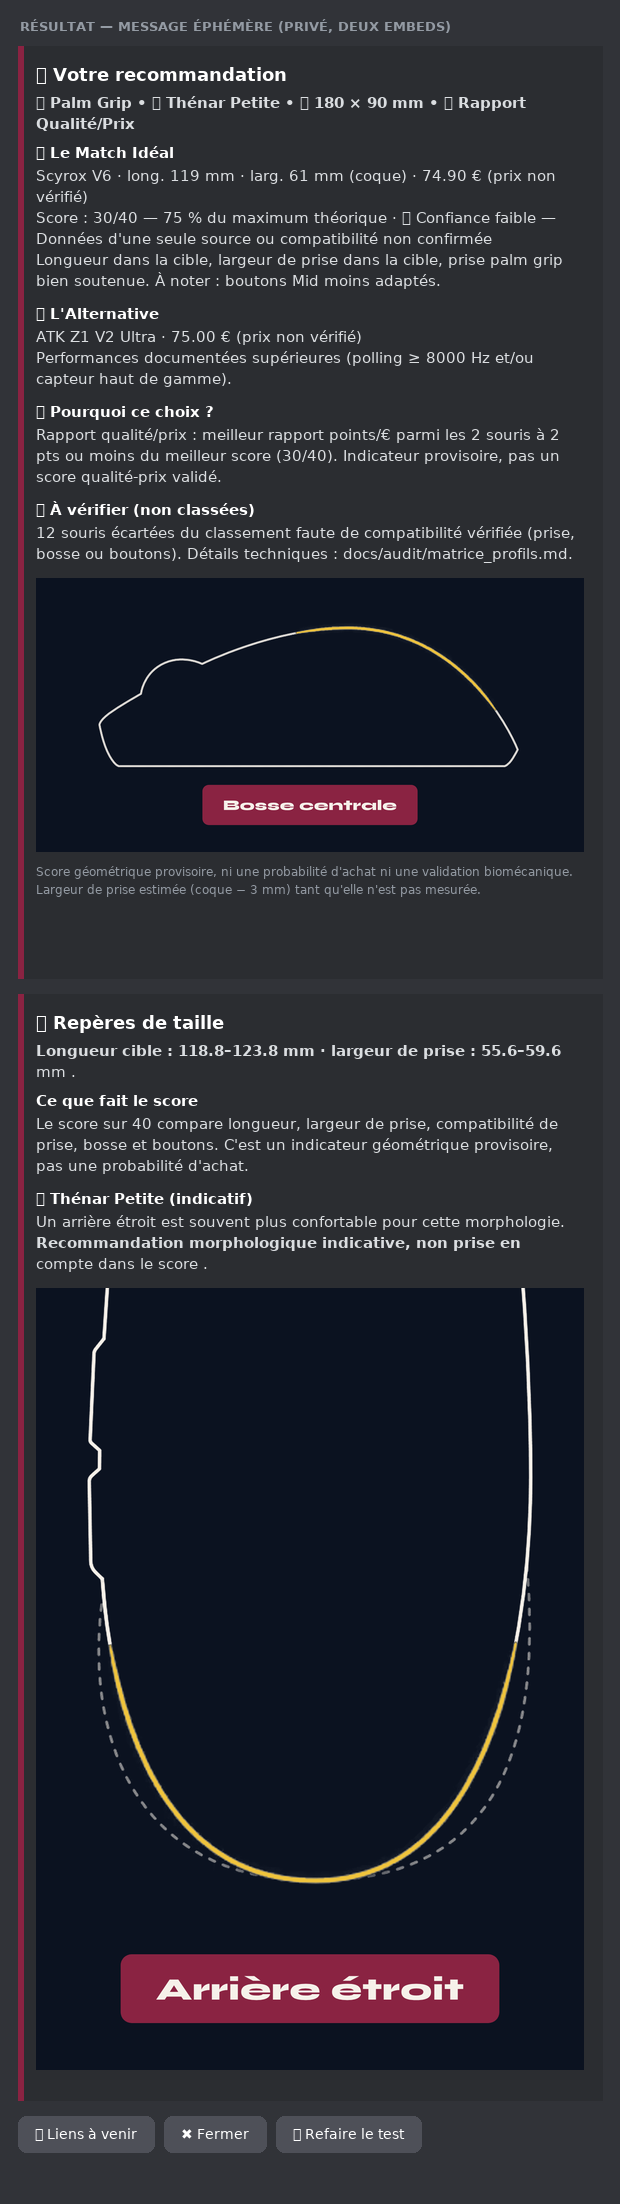
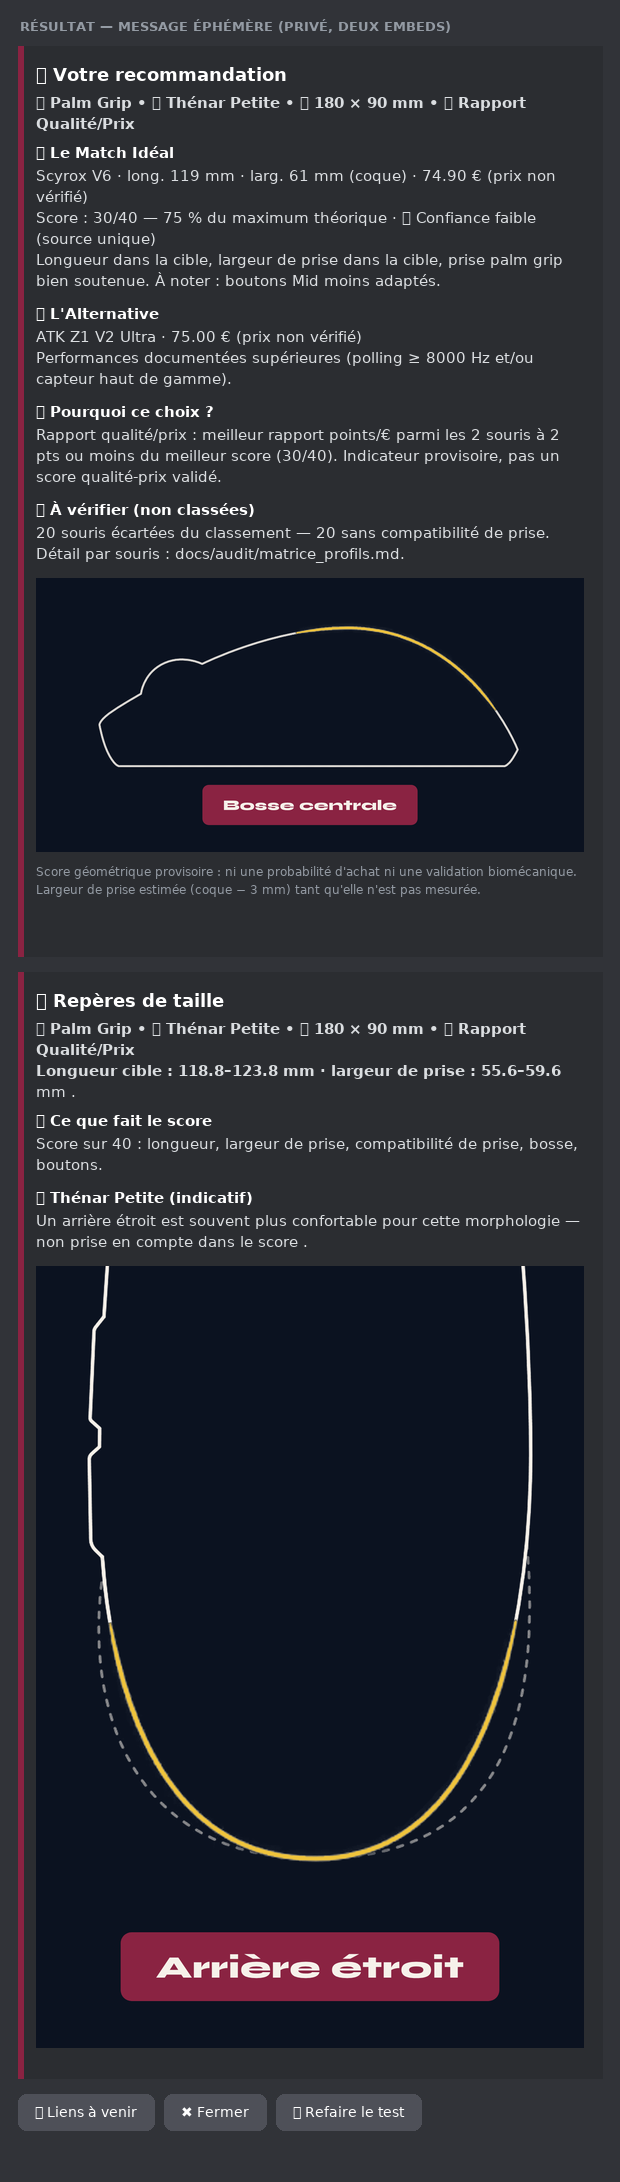
Résultat « moins pavé » + outil de mesure de la largeur de prise (méthode Oblivity)
Présentation (P5/P10 conservés, aucun calcul touché)
- Match idéal en 3 lignes ; badge de confiance compact ; une seule remarque « à noter ».
- « À vérifier » : décompte par raison (« 20 écartées — 20 sans compatibilité de prise ») puis ≤ 5 noms.
- Embed 2 autoportant (prise · thénar · main · gamme + cibles), « Ce que fait le score » en une ligne,
  thénar informatif en une ligne ; suppression des doublons de mention « provisoire ».
- Aperçus régénérés (docs/apercu_resultat.png, docs/apercu_parcours.png).

Outil (nouveau)
- tools/measure_grip_width.py : mesure la largeur de prise (mm) sur une capture vue de dessus, l'échelle
  étant déduite de la longueur réelle ; profil tous les 10 %, tolérance de fond/transparence, sortie JSON.
- tests/test_measure_grip_width.py (4 tests sur silhouettes synthétiques) ; 253 -> 257 tests verts.

Docs : AMELIORATIONS §7 (détail de la refonte) et §8 (mode d'emploi de l'outil), README (arborescence),
REPORTE_DESIGN §6 (note de mise à jour).

diff --git a/tools/measure_grip_width.py b/tools/measure_grip_width.py
@@ -1,0 +1,143 @@
+"""Mesure la largeur de prise d'une souris sur une image vue de dessus (méthode Oblivity).
+
+Pourquoi ce script : le fabricant (et EloShapes) publient la largeur **maximale**, mesurée au point le
+plus large — souvent déformé par l'évasement arrière. Le critère utile est la largeur **au niveau du
+capteur**, là où le pouce et l'auriculaire touchent la souris (voir la vidéo Oblivity « The Scientific
+Way to Pick A Mouse », 3:19 et 6:35, et `docs/AMELIORATIONS_MOTEUR_ET_RECHERCHE.md`).
+
+Mode d'emploi (aucune connexion réseau, aucune donnée envoyée) :
+  1. faire une capture vue de dessus du contour de la souris (EloShapes par exemple) ;
+  2. lancer `python tools/measure_grip_width.py capture.png --length 118.2` ;
+  3. reporter la valeur « largeur au capteur » dans `grip_width_mm` du catalogue, avec la source et la date.
+
+L'échelle est déduite de la longueur réelle : le contour doit être entier et cadré (vue de dessus stricte).
+Précision typique : ± 0,3 mm sur une capture de 600 px de long (≈ 0,2 mm par pixel).
+"""
+from __future__ import annotations
+
+import argparse
+import json
+import sys
+from pathlib import Path
+
+from PIL import Image
+
+ALPHA_THRESHOLD = 16          # transparence : en dessous, le pixel est considéré comme vide
+BACKGROUND_TOLERANCE = 24     # écart de couleur admis avec le fond (sans transparence)
+PROFILE_STEP_PERCENT = 10     # pas du profil affiché (% de la longueur depuis l'avant)
+
+
+class MeasurementError(ValueError):
+    """Image inexploitable (aucun contour détecté, format inattendu…)."""
+
+
+def _background_color(pixels, size) -> tuple[int, int, int]:
+    """Couleur de fond = moyenne des quatre coins."""
+    width, height = size
+    corners = [(0, 0), (width - 1, 0), (0, height - 1), (width - 1, height - 1)]
+    samples = [pixels[x, y][:3] for x, y in corners]
+    return tuple(sum(channel) // len(samples) for channel in zip(*samples))  # type: ignore[return-value]
+
+
+def silhouette_rows(image: Image.Image) -> list[tuple[int, int, int]]:
+    """Largeur de la silhouette, ligne par ligne : liste de (y, x_min, x_max).
+
+    Une ligne sans pixel « souris » est omise. La transparence sert de masque si elle existe,
+    sinon le fond (couleur des coins) est retiré avec une tolérance.
+    """
+    rgba = image.convert("RGBA")
+    width, height = rgba.size
+    pixels = rgba.load()
+    has_alpha = any(pixels[x, y][3] < 255 for x in range(0, width, 4) for y in range(0, height, 4))
+    background = _background_color(pixels, (width, height))
+    rows: list[tuple[int, int, int]] = []
+    for y in range(height):
+        x_min = x_max = None
+        for x in range(width):
+            red, green, blue, alpha = pixels[x, y]
+            if has_alpha:
+                is_shape = alpha > ALPHA_THRESHOLD
+            else:
+                is_shape = any(abs(channel - back) > BACKGROUND_TOLERANCE
+                               for channel, back in zip((red, green, blue), background))
+            if is_shape:
+                if x_min is None:
+                    x_min = x
+                x_max = x
+        if x_min is not None and x_max is not None:
+            rows.append((y, x_min, x_max))
+    if not rows:
+        raise MeasurementError("aucun contour détecté : vérifiez que la souris se détache du fond")
+    return rows
+
+
+def measure(image_path: Path, length_mm: float, at: float = 0.5) -> dict[str, object]:
+    """Mesure la silhouette et retourne les largeurs (mm) à la fraction demandée et au point le plus large."""
+    if length_mm <= 0:
+        raise MeasurementError("la longueur réelle doit être positive")
+    if not 0.0 <= at <= 1.0:
+        raise MeasurementError("la fraction de longueur doit être comprise entre 0 et 1")
+    rows = silhouette_rows(Image.open(image_path))
+    top, bottom = rows[0][0], rows[-1][0]
+    height_px = bottom - top + 1
+    scale = length_mm / height_px                     # mm par pixel (la hauteur de l'image = la longueur)
+    widths = [(y, (x_max - x_min + 1) * scale) for y, x_min, x_max in rows]
+
+    def width_at(fraction: float) -> tuple[float, float]:
+        index = min(len(widths) - 1, max(0, round(fraction * (len(widths) - 1))))
+        y, value = widths[index]
+        return (y - top) / max(1, height_px - 1), value
+
+    at_fraction, at_width = width_at(at)
+    max_y, max_width = max(widths, key=lambda item: item[1])
+    profile = {f"{percent} %": round(width_at(percent / 100)[1], 2)
+               for percent in range(0, 101, PROFILE_STEP_PERCENT)}
+    profile["100 %"] = round(widths[-1][1], 2)
+    return {
+        "image": str(image_path),
+        "longueur_reelle_mm": length_mm,
+        "hauteur_contour_px": height_px,
+        "mm_par_pixel": round(scale, 4),
+        "largeur_au_point_demande_mm": round(at_width, 2),
+        "fraction_demandee": round(at_fraction, 3),
+        "largeur_maximale_mm": round(max_width, 2),
+        "fraction_du_maximum": round((max_y - top) / max(1, height_px - 1), 3),
+        "profil_mm": profile,
+    }
+
+
+def main(argv: list[str] | None = None) -> int:
+    parser = argparse.ArgumentParser(description="Largeur de prise d'une souris depuis une image vue de dessus.")
+    parser.add_argument("image", type=Path, help="contour vu de dessus (PNG ou JPG)")
+    parser.add_argument("--length", type=float, required=True, help="longueur réelle de la souris en mm (échelle)")
+    parser.add_argument("--at", type=float, default=0.5,
+                        help="position de mesure le long de la souris (0 = avant, 0,5 = milieu, 1 = arrière)")
+    parser.add_argument("--json", action="store_true", help="sortie JSON (pour un script)")
+    args = parser.parse_args(argv)
+    if not args.image.is_file():
+        print(f"ERREUR : image introuvable : {args.image}")
+        return 1
+    try:
+        result = measure(args.image, args.length, args.at)
+    except MeasurementError as exc:
+        print(f"ERREUR : {exc}")
+        return 1
+    if args.json:
+        print(json.dumps(result, ensure_ascii=False, indent=2))
+        return 0
+    print(f"Image : {result['image']}")
+    print(f"Échelle : {result['hauteur_contour_px']} px pour {result['longueur_reelle_mm']} mm "
+          f"→ {result['mm_par_pixel']} mm/px")
+    print(f"Largeur maximale mesurée : {result['largeur_maximale_mm']} mm "
+          f"(à {result['fraction_du_maximum'] * 100:.0f} % de la longueur depuis l'avant)")
+    print(f"Largeur à {result['fraction_demandee'] * 100:.0f} % de la longueur : "
+          f"**{result['largeur_au_point_demande_mm']} mm**")
+    print("Profil de largeur (hausse de l'avant vers l'arrière) :")
+    for percent, value in result["profil_mm"].items():
+        print(f"  {percent:>5} : {value} mm")
+    print("\nReporter la valeur utile dans data/mouse_db.json (champ grip_width_mm) avec sa source et sa date.")
+    return 0
+
+
+if __name__ == "__main__":
+    sys.exit(main())

diff --git a/cogs/finder_flow.py b/cogs/finder_flow.py
@@ -64,7 +64,7 @@ COLOR = BORDEAUX
 COLOR_EXPIRED = discord.Color.orange()           # seule exception à la charte (session expirée)
 
 SCORE_DISCLAIMER = (
-    "Score géométrique provisoire, ni une probabilité d'achat ni une validation biomécanique. "
+    "Score géométrique provisoire : ni une probabilité d'achat ni une validation biomécanique. "
     "Largeur de prise estimée (coque − 3 mm) tant qu'elle n'est pas mesurée."
 )
 PENDING_DOC_REFERENCE = "docs/audit/matrice_profils.md"
@@ -209,14 +209,11 @@ def _price_text(score: MouseScore) -> str:
 
 
 def _confidence_line(score: MouseScore) -> str:
-    """Badge de confiance en une ligne, avec la raison (jamais une couleur seule)."""
-    badge = CONFIDENCE_BADGES.get(score.confidence or "faible", "🔴")
-    reason = {
-        "élevée": "Dimensions vérifiées et largeur de prise mesurée",
-        "moyenne": "Dimensions vérifiées, largeur de prise estimée (coque − 3 mm, provisoire)",
-        "faible": "Données d'une seule source ou compatibilité non confirmée",
-    }.get(score.confidence or "faible", "Données partielles")
-    return f"{badge} Confiance {score.confidence or 'faible'} — {reason}"
+    """Badge de confiance compact (jamais une couleur seule) : le détail est expliqué dans la matrice."""
+    level = score.confidence or "faible"
+    badge = CONFIDENCE_BADGES.get(level, "🔴")
+    short = {"élevée": "", "moyenne": " (largeur estimée)", "faible": " (source unique)"}.get(level, "")
+    return f"{badge} Confiance {level}{short}"
 
 
 def _match_summary(score: MouseScore) -> str:
@@ -248,17 +245,17 @@ def _match_summary(score: MouseScore) -> str:
         )
     sentence = ", ".join(good[:3]).capitalize() if good else "Géométrie proche de votre profil"
     if weak:
-        sentence += f". À noter : {', '.join(weak[:2])}."
+        sentence += f". À noter : {', '.join(weak[:1])}."
     else:
         sentence += "."
     return sentence[:300]
 
 
 def _candidate_text(score: MouseScore) -> str:
-    """Bloc du Match Idéal : souris, prix, score unique, confiance, justification humaine (≤ 600 car.)."""
+    """Match idéal en trois lignes courtes : souris/prix, score unique + confiance, résumé humain."""
     return (
         f"**{score.mouse.label}** · {_size_text(score.mouse)} · {_price_text(score)}\n"
-        f"Score : **{score.total}/{MAX_SCORE} — {compatibility_percent(score)} % du maximum théorique**  ·  "
+        f"Score : **{score.total}/{MAX_SCORE} — {compatibility_percent(score)} % du maximum théorique** · "
         f"{_confidence_line(score)}\n"
         f"{_match_summary(score)}"
     )[:1024]
@@ -323,17 +320,45 @@ def _pending_reason(score: MouseScore) -> str:
     return "données incomplètes"
 
 
+PENDING_BUCKETS = {
+    "compatibilité": "sans compatibilité de prise",
+    "bosse": "sans hauteur de bosse",
+    "boutons": "sans hauteur de boutons",
+    "dimensions": "sans dimensions vérifiées",
+    "prix": "sans prix renseigné",
+}
+
+
+def _pending_bucket(score: MouseScore) -> str:
+    """Regroupe une souris non classée par donnée manquante (pour un décompte compact)."""
+    missing = " ".join(score.missing)
+    for key, label in PENDING_BUCKETS.items():
+        if key in missing:
+            return label
+    return "données incomplètes"
+
+
+def _pending_breakdown(pending: tuple[MouseScore, ...]) -> str:
+    """« 12 sans compatibilité · 5 sans hauteur de boutons » — ordre décroissant, sans points internes."""
+    counts: dict[str, int] = {}
+    for score in pending:
+        bucket = _pending_bucket(score)
+        counts[bucket] = counts.get(bucket, 0) + 1
+    ordered = sorted(counts.items(), key=lambda item: (-item[1], item[0]))
+    return " · ".join(f"{count} {label}" for label, count in ordered)
+
+
 def _pending_text(pending: tuple[MouseScore, ...]) -> str:
-    """Silence visuel : 5 noms maximum, sans score, puis renvoi vers la matrice technique."""
+    """Décompte compact par raison, puis au maximum 5 noms (jamais de score partiel)."""
+    header = f"{len(pending)} souris écartées du classement — {_pending_breakdown(pending)}."
     if len(pending) > MAX_PENDING_LISTED:
-        return (
-            f"{len(pending)} souris écartées du classement faute de compatibilité vérifiée "
-            f"(prise, bosse ou boutons). Détails techniques : `{PENDING_DOC_REFERENCE}`."
-        )
+        return f"{header}\nDétail par souris : `{PENDING_DOC_REFERENCE}`."[:1024]
     lines = [f"• **{s.mouse.label}** — {_pending_reason(s)}" for s in pending[:MAX_PENDING_SHOWN]]
     if len(pending) > MAX_PENDING_SHOWN:
-        lines.append(f"… et {len(pending) - MAX_PENDING_SHOWN} autre(s) — détails : `{PENDING_DOC_REFERENCE}`.")
-    return "\n".join(lines)[:1024]
+        lines.append(f"… +{len(pending) - MAX_PENDING_SHOWN} — `{PENDING_DOC_REFERENCE}`.")
+    else:
+        lines.append(f"Détail par souris : `{PENDING_DOC_REFERENCE}`.")
+    return f"{header}\n" + "\n".join(lines)[:1024]
 
 
 # ---------------------------------------------------------------------------
@@ -466,22 +491,17 @@ def results_embeds(session: FinderSession, selection: Selection) -> list[discord
 
     if selection.ranked and session.grip is not None:
         details = discord.Embed(title="📐 Repères de taille", color=COLOR)
-        details.description = _target_line(session)
+        # Autoportant : le rappel de la prise et des mesures permet de lire cet embed seul (partage, capture).
+        details.description = f"{_recap(session)}\n{_target_line(session)}"
         details.add_field(
-            name="Ce que fait le score",
-            value=(
-                "Le score sur 40 compare longueur, largeur de prise, compatibilité de prise, bosse et boutons. "
-                "C'est un indicateur géométrique provisoire, pas une probabilité d'achat."
-            ),
+            name="🧮 Ce que fait le score",
+            value="Score sur 40 : longueur, largeur de prise, compatibilité de prise, bosse, boutons.",
             inline=False,
         )
         if session.thenar is Thenar.PETITE and session.grip is not Grip.FINGERTIP:
             details.add_field(
                 name="🖐 Thénar Petite (indicatif)",
-                value=(
-                    "Un arrière étroit est souvent plus confortable pour cette morphologie. "
-                    "Recommandation morphologique indicative, **non prise en compte dans le score**."
-                ),
+                value="Un arrière étroit est souvent plus confortable pour cette morphologie — **non prise en compte dans le score**.",
                 inline=False,
             )
             details = _image(details, "illustration_rear_narrow")

diff --git a/tests/test_measure_grip_width.py b/tests/test_measure_grip_width.py
@@ -1,0 +1,58 @@
+"""Outil de mesure de la largeur de prise (tools/measure_grip_width.py) : précision et cas limites."""
+import importlib.util
+from pathlib import Path
+
+import pytest
+from PIL import Image, ImageDraw
+
+ROOT = Path(__file__).resolve().parents[1]
+spec = importlib.util.spec_from_file_location("measure_grip_width", ROOT / "tools" / "measure_grip_width.py")
+tool = importlib.util.module_from_spec(spec)
+spec.loader.exec_module(tool)
+
+
+def synthetic_image(path: Path, background=(255, 255, 255), transparent=False) -> Path:
+    """Silhouette de 300 px de haut (120 mm) : 40 px de large en haut, 60 px au milieu, 30 px en bas."""
+    image = Image.new("RGBA", (120, 300), (*background, 255) if not transparent else (0, 0, 0, 0))
+    draw = ImageDraw.Draw(image)
+    fill = (20, 20, 20, 255)
+    draw.polygon([(40, 0), (80, 0), (90, 150), (75, 299), (45, 299), (30, 150)], fill=fill)
+    image.save(path)
+    return path
+
+
+def test_measure_converts_pixels_to_millimetres(tmp_path):
+    image = synthetic_image(tmp_path / "shape.png")
+    result = tool.measure(image, length_mm=120.0, at=0.5)
+    assert result["hauteur_contour_px"] == 300
+    assert result["mm_par_pixel"] == pytest.approx(0.4, abs=1e-3)
+    # 60 px au milieu -> 24 mm (tolérance d'un pixel)
+    assert result["largeur_au_point_demande_mm"] == pytest.approx(24.0, abs=0.5)
+    assert result["largeur_maximale_mm"] == pytest.approx(24.0, abs=0.5)
+
+
+def test_measure_handles_transparent_background(tmp_path):
+    image = synthetic_image(tmp_path / "transparent.png", transparent=True)
+    result = tool.measure(image, length_mm=120.0, at=0.1)
+    assert result["largeur_au_point_demande_mm"] < result["largeur_maximale_mm"]
+    assert result["hauteur_contour_px"] == 300
+
+
+def test_measure_rejects_empty_or_invalid_inputs(tmp_path):
+    empty = tmp_path / "empty.png"
+    Image.new("RGBA", (40, 40), (255, 255, 255, 255)).save(empty)
+    with pytest.raises(tool.MeasurementError):
+        tool.measure(empty, length_mm=120.0)
+    image = synthetic_image(tmp_path / "shape.png")
+    with pytest.raises(tool.MeasurementError):
+        tool.measure(image, length_mm=0.0)
+    with pytest.raises(tool.MeasurementError):
+        tool.measure(image, length_mm=120.0, at=1.5)
+
+
+def test_command_line_returns_json(tmp_path, capsys):
+    image = synthetic_image(tmp_path / "shape.png")
+    assert tool.main([str(image), "--length", "120", "--at", "0.5", "--json"]) == 0
+    payload = capsys.readouterr().out
+    assert '"largeur_au_point_demande_mm"' in payload and '"profil_mm"' in payload
+    assert tool.main([str(tmp_path / "absent.png"), "--length", "120"]) == 1

diff --git a/docs/AMELIORATIONS_MOTEUR_ET_RECHERCHE.md b/docs/AMELIORATIONS_MOTEUR_ET_RECHERCHE.md
@@ -205,9 +205,49 @@ Un commit par point coché, avec message explicite, et un résumé final : fichi
 
 ---
 
-## 7. Ce qu'il me manque de toi pour finir
+## 7. Résultat « moins pavé » — fait le 2026-10-11
 
-1. **Les réponses de leur bot** (§4) — surtout les plages par prise pour ton gabarit et leur texte sur bosse/boutons.
-2. **Ta mesure de largeur de prise** sur les souris que tu possèdes (I1) — au réglet, au niveau du capteur.
-3. **Tes prix en euros** (ou l'autorisation de chercher) pour les 8 nouvelles souris (I4).
+La capture du bot montrait un pavé de paragraphes. Refonte appliquée (`cogs/finder_flow.py`, tests mis à jour, 257 verts) :
+
+| Avant | Après |
+|---|---|
+| Bloc « Match Idéal » de 5 lignes (taille, prix, score, confiance + raison longue, justification) | **3 lignes** : souris · taille · prix / score unique + badge (🟢/🟡/🔴) / résumé humain |
+| « Confiance moyenne — Dimensions vérifiées, largeur de prise estimée (coque − 3 mm, provisoire) » | « 🟡 Confiance moyenne (largeur estimée) » — le détail reste dans la matrice technique |
+| « À vérifier » : phrase globale | **décompte par raison** (« 20 écartées — 20 sans compatibilité de prise ») puis ≤ 5 noms |
+| Embed 2 : 3 paragraphes + rappel | **autoportant** (prise · thénar · main · gamme + cibles), 1 ligne « Ce que fait le score », thénar en 1 ligne |
+| Doublons « provisoire » / explications | une seule mention générique, dans le pied de l'embed 1 |
+
+Aperçu régénéré : `docs/apercu_resultat.png` (et `docs/apercu_parcours.png`). Aucun calcul touché.
+Reste optionnel (I5#2) : afficher « X souris classées sur 26 » — demande de faire remonter la taille du catalogue
+jusqu'au résultat, donc une petite évolution de `Selection` (à faire avec un test dédié).
+
+## 8. Mesurer la largeur de prise depuis une capture (outil fourni)
+
+`tools/measure_grip_width.py` fait exactement ce que tu demandais avec imageonline.io, mais **en local et en mm** :
+
+```bash
+python tools/measure_grip_width.py contour_souris.png --length 118.2 --at 0.5
+```
+
+- `--length` = la longueur réelle de la souris (l'échelle est déduite du contour : 300 px pour 120 mm → 0,4 mm/px) ;
+- `--at` = où mesurer (0 = avant, 0,5 = milieu, 1 = arrière) ; `--sensor-percent` d'EloShapes
+  (ex. « Position · Centered (53 %) ») se traduit en `--at` selon le repère de ton choix ;
+- sortie : largeur max mesurée (à comparer à la fiche fabricant), largeur au point demandé, et **profil tous les 10 %**.
+
+Marche à suivre : capture vue de dessus (EloShapes) → outil → reporter `grip_width_mm` dans `data/mouse_db.json`
+avec la source et la date. C'est la méthode recommandée par la vidéo (3:19 et 6:35).
+Précision typique ± 0,3 mm ; une mesure au réglet sur une souris réelle reste la référence pour valider la méthode.
+
+## 9. Ce qu'il me manque de toi pour finir
+
+1. **Les 10 fichiers `.txt` de leur outil** — ils ne sont **pas arrivés** dans mon espace de travail (seul le dossier
+   d'images existe). Colle leur contenu dans le chat, ou renvoie-les. Ce que j'en attends : leurs **plages de longueur
+   et de largeur par prise** et leurs conseils de forme, pour comparer avec notre moteur et repérer ce qui doit bouger.
+   À noter : **leurs noms de fichiers contiennent le thénar** (« Thenar Medium », « Thenar Small »…) — soit leur outil
+   le demande aussi, soit tu as utilisé notre bot : dans les deux cas, dis-moi de quel bot viennent ces réponses.
+2. **Les prix en euros** : la page que j'interroge (`/fr-fr/collections/souris`) m'affiche **« $ … USD »**, pas des euros.
+   Si ton navigateur affiche bien des **€**, envoie-moi les montants exacts que tu vois (ou une capture) : je les
+   saisirai sourcés. Sinon je cherche des prix EUR chez des revendeurs européens.
+3. **Ta mesure de largeur de prise** sur les souris que tu possèdes (I1) — au réglet, au niveau du capteur,
+   ou via `tools/measure_grip_width.py` sur une capture EloShapes.
 4. **Le choix des points** à implémenter (I1 → I5) : je peux tout faire d'un coup, ou seulement I1/I3/I5 (les moins risqués).

diff --git a/README.md b/README.md
@@ -398,6 +398,7 @@ MouseDiscord/
 │   ├── check_deployment.py   # Contrôle de déploiement (fichiers, token, JSON, state/) — sans afficher le token
 │   ├── build_mouse_db.py     # Génère le catalogue v2 à partir des données sourcées
 │   ├── build_ai_bundle.py    # Prépare le pack (prompt + règles + catalogue) pour une IA de recherche
+│   ├── measure_grip_width.py # Largeur de prise en mm depuis une capture vue de dessus (méthode Oblivity)
 │   └── compare_profiles.py   # Génère docs/audit/matrice_profils.md
 ├── docs/
 │   ├── DEPLOYMENT_ALWAYSDATA_FILEZILLA.md  # Guide de mise en ligne (Alwaysdata, FileZilla, illustrations)
